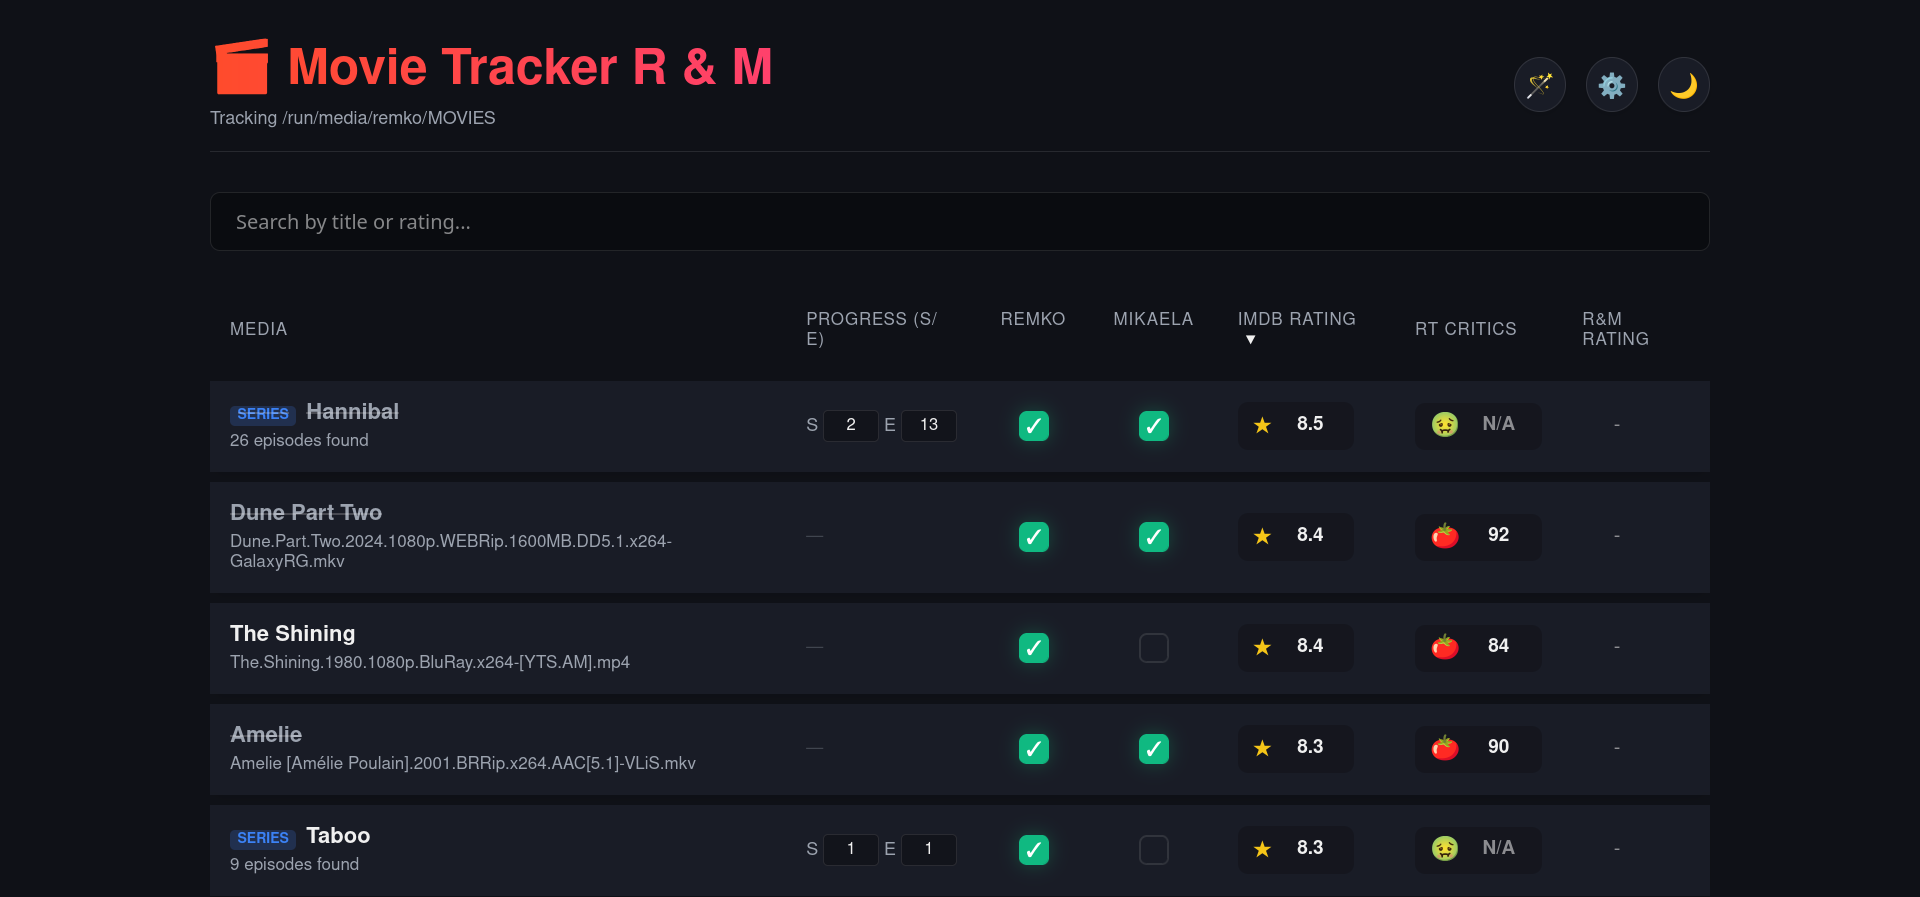
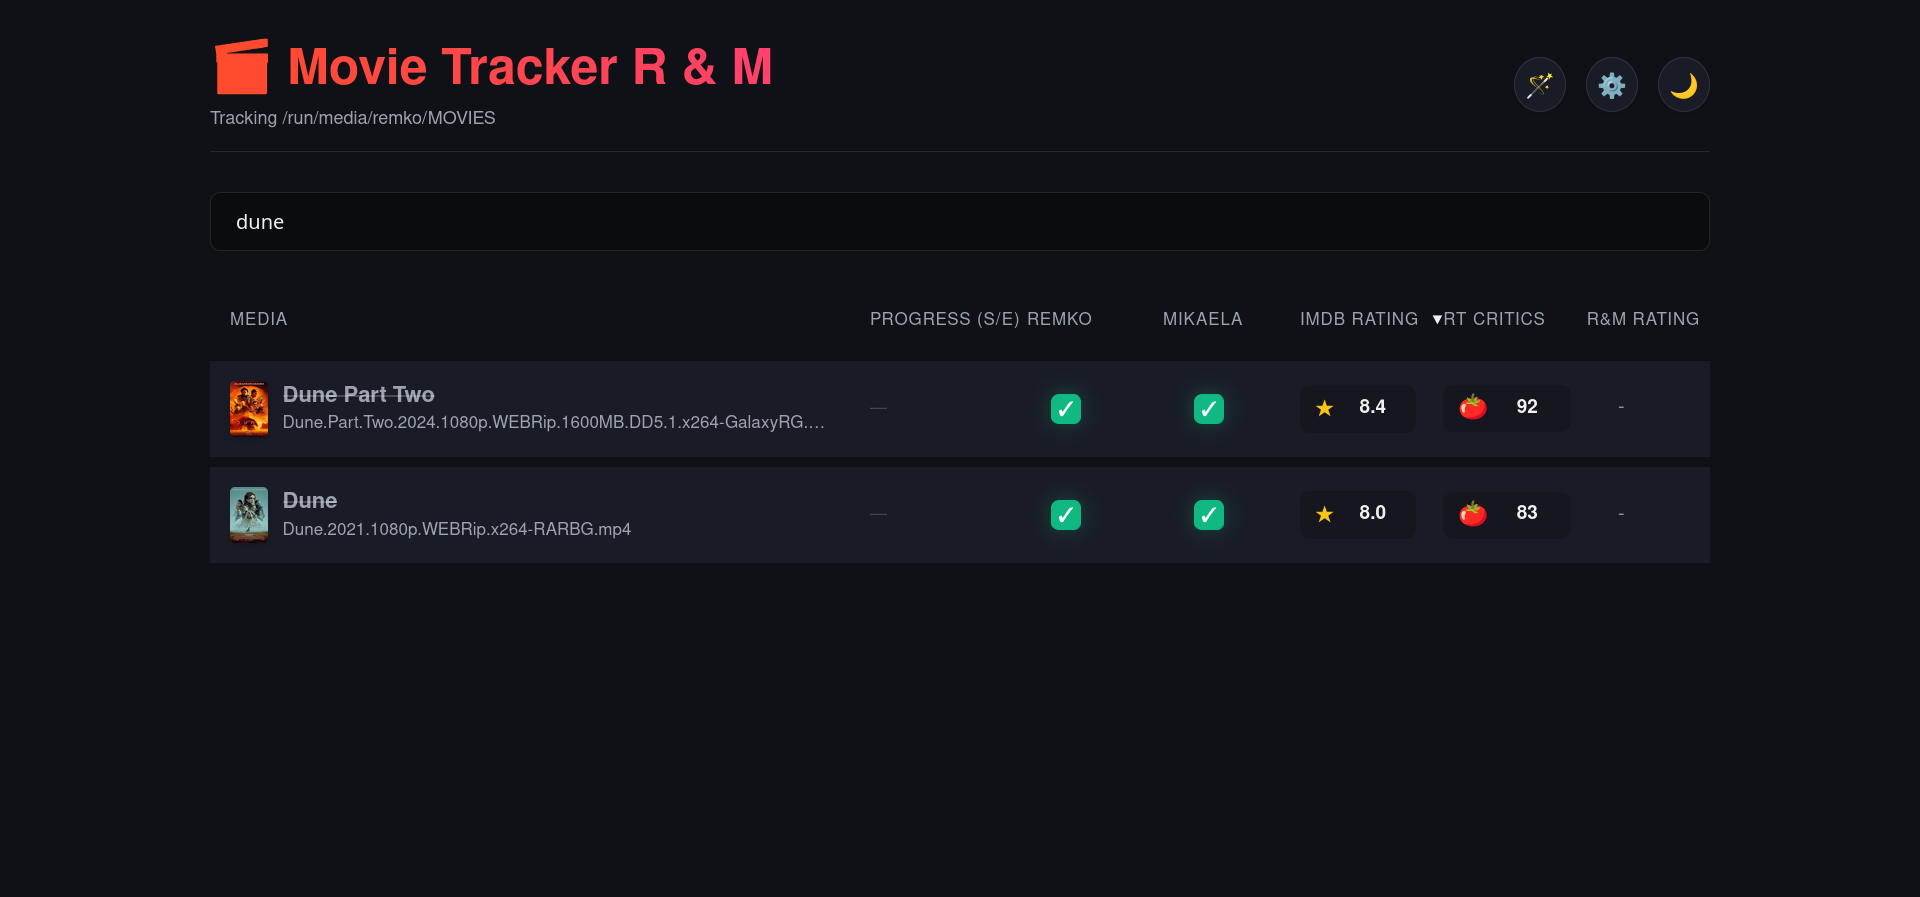
Added video previews and movie and series poster fetch
New Features:
- Video previews
- Movie and Series poster fetch

diff --git a/script.js b/script.js
@@ -169,7 +169,7 @@ let rawMoviesData = [];
         if (btn) btn.innerText = '⏳';
         
         for (const item of rawMoviesData) {
-            if (item.type === 'movie' && (item.imdb === 'N/A' || item.rt_critics === 'N/A')) {
+            if (item.imdb === 'N/A' || item.rt_critics === 'N/A' || item.poster === '') {
                 try {
                     const displayTitle = item.mapped_name || item.title;
                     const res = await fetch('/api/movies/fetch_ratings', {
@@ -381,19 +381,27 @@ let rawMoviesData = [];
         document.getElementById('overview-view').style.display = 'none';
         
         const displayTitle = item.mapped_name || item.title;
+        const hasPoster = item.poster && item.poster !== 'N/A';
+        const posterHtmlLarge = hasPoster 
+            ? `<img src="${item.poster}" alt="Poster" onerror="handlePosterError(this, 'large')" style="width: 250px; border-radius: 12px; box-shadow: 0 8px 24px rgba(0,0,0,0.4); flex-shrink: 0;">` 
+            : `<div style="width: 250px; height: 375px; background: var(--surface-light); border: 1px solid var(--border-color); border-radius: 12px; display: flex; align-items: center; justify-content: center; color: var(--text-muted); flex-shrink: 0; box-shadow: 0 8px 24px rgba(0,0,0,0.4);">No Poster</div>`;
+        
         let detailsHtml = `
             <button class="btn-back" onclick="hideDetails()">← Back to Overview</button>
-            <h2 style="font-size: 2.5rem; margin-bottom: 0.5rem;">${displayTitle}</h2>
-            
-            <div style="margin-bottom: 2rem;">
-                <label style="color: var(--text-muted); font-size: 0.85rem; display: block; margin-bottom: 0.25rem;">Mapped Name (override):</label>
-                <input type="text" id="mapped-name-input" value="${item.mapped_name || ''}" class="search-input" style="width: 300px; padding: 6px; font-size: 0.9rem;"
-                    placeholder="Enter clean name..."
-                    onfocus="handleInputFocus(this, '${item.id.replace(/'/g, "\\'")}', 'mapped_name', true)"
-                    onblur="handleInputBlur(this)"
-                    onkeydown="if(event.key==='Enter') { this.nextElementSibling?.click(); this.blur(); }">
-                <span id="save-status-${item.id.replace(/[^a-zA-Z0-9]/g, '')}" style="color: var(--accent-success); margin-left: 10px; opacity: 0; transition: opacity 0.3s;">✓ Saved</span>
-            </div>
+            <div style="display: flex; gap: 2rem; align-items: flex-start; margin-top: 1.5rem;">
+                ${posterHtmlLarge}
+                <div style="flex: 1; min-width: 0;">
+                    <h2 style="font-size: 2.5rem; margin-bottom: 0.5rem; margin-top: 0;">${displayTitle}</h2>
+                    
+                    <div style="margin-bottom: 2rem;">
+                        <label style="color: var(--text-muted); font-size: 0.85rem; display: block; margin-bottom: 0.25rem;">Mapped Name (override):</label>
+                        <input type="text" id="mapped-name-input" value="${item.mapped_name || ''}" class="search-input" style="width: 300px; padding: 6px; font-size: 0.9rem;"
+                            placeholder="Enter clean name..."
+                            onfocus="handleInputFocus(this, '${item.id.replace(/'/g, "\\'")}', 'mapped_name', true)"
+                            onblur="handleInputBlur(this)"
+                            onkeydown="if(event.key==='Enter') { this.nextElementSibling?.click(); this.blur(); }">
+                        <span id="save-status-${item.id.replace(/[^a-zA-Z0-9]/g, '')}" style="color: var(--accent-success); margin-left: 10px; opacity: 0; transition: opacity 0.3s;">✓ Saved</span>
+                    </div>
             
             ${item.type === 'movie' ? `
             <div style="margin-bottom: 2rem;">
@@ -429,7 +437,7 @@ let rawMoviesData = [];
                         onkeydown="if(event.key==='Enter') { this.nextElementSibling?.click(); this.blur(); }" placeholder="N/A">
                 </div>
                 <div class="rating-badge rating-rt-critics">
-                    <span class="icon">🍅</span>
+                    <span class="icon">${(item.rt_critics === 'N/A' || item.rt_critics === '') ? '<span style="filter: grayscale(1); opacity: 0.5;">🍅</span>' : (parseInt(item.rt_critics) >= 60 ? '🍅' : '🤢')}</span>
                     <input type="text" class="rating-input" style="width: 40px; background: transparent; border: 1px solid transparent; color: inherit; font-size: inherit; text-align: center;" value="${item.rt_critics !== 'N/A' ? item.rt_critics : ''}" 
                         onfocus="handleInputFocus(this, '${item.id.replace(/'/g, "\\'")}', 'rt_critics')" 
                         onblur="handleInputBlur(this)"
@@ -463,6 +471,21 @@ let rawMoviesData = [];
             });
             detailsHtml += `</ul>`;
         }
+        
+        if (item.type === 'movie' && item.filepath) {
+            const videoUrl = `/api/video?path=${encodeURIComponent(item.filepath)}`;
+            detailsHtml += `
+            <div style="margin-top: 3rem; border-top: 1px solid var(--border-color); padding-top: 2rem;">
+                <h3 style="margin-bottom: 1rem; color: var(--text-color);">Video Preview</h3>
+                <video controls width="100%" style="background: black; border-radius: 8px; max-height: 50vh;" preload="metadata">
+                    <source src="${videoUrl}" type="video/mp4">
+                    Your browser does not support the video tag.
+                </video>
+            </div>
+            `;
+        }
+        
+        detailsHtml += `</div></div>`; // Close the flex container and flex: 1 wrapper
         
         document.getElementById('details-view').innerHTML = detailsHtml;
         document.getElementById('details-view').style.display = 'block';
@@ -533,6 +556,14 @@ let rawMoviesData = [];
         });
     }
 
+    window.handlePosterError = function(imgElement, size) {
+        if (size === 'small') {
+            imgElement.outerHTML = `<div style="height: 45px; width: 30px; background: var(--surface-light); border: 1px solid var(--border-color); border-radius: 4px; display: flex; align-items: center; justify-content: center; color: var(--text-muted); font-size: 0.6rem; text-align: center; margin-right: 12px; box-sizing: border-box; line-height: 1;">N/A</div>`;
+        } else {
+            imgElement.outerHTML = `<div style="width: 250px; height: 375px; background: var(--surface-light); border: 1px solid var(--border-color); border-radius: 12px; display: flex; align-items: center; justify-content: center; color: var(--text-muted); flex-shrink: 0; box-shadow: 0 8px 24px rgba(0,0,0,0.4);">No Poster</div>`;
+        }
+    };
+
     function renderMovies() {
         updateSortIcons();
         const tbody = document.getElementById('movie-tbody');
@@ -556,10 +587,19 @@ let rawMoviesData = [];
             const subtext = isTv ? `${item.episodes_count} episodes found` : item.filename;
             
             const displayTitle = item.mapped_name || item.title;
+            const hasPoster = item.poster && item.poster !== 'N/A';
+            const posterHtmlSmall = hasPoster 
+                ? `<img src="${item.poster}" alt="poster" onerror="handlePosterError(this, 'small')" style="height: 45px; width: 30px; border-radius: 4px; object-fit: cover; margin-right: 12px; box-shadow: 0 2px 4px rgba(0,0,0,0.2);">` 
+                : `<div style="height: 45px; width: 30px; background: var(--surface-light); border: 1px solid var(--border-color); border-radius: 4px; display: flex; align-items: center; justify-content: center; color: var(--text-muted); font-size: 0.6rem; text-align: center; margin-right: 12px; box-sizing: border-box; line-height: 1;">N/A</div>`;
             
             tdTitle.innerHTML = `
-                <div class="movie-title" style="cursor:pointer;" onclick="showDetails('${item.id.replace(/'/g, "\\'")}')" title="View Details">${badge}${displayTitle}</div>
-                <div class="movie-meta">${subtext}</div>
+                <div style="display: flex; align-items: center; cursor:pointer;" onclick="showDetails('${item.id.replace(/'/g, "\\'")}')" title="View Details">
+                    ${posterHtmlSmall}
+                    <div style="min-width: 0;">
+                        <div class="movie-title">${badge}${displayTitle}</div>
+                        <div class="movie-meta">${subtext}</div>
+                    </div>
+                </div>
             `;
             tr.appendChild(tdTitle);
 
@@ -629,12 +669,14 @@ let rawMoviesData = [];
 
             // RT Critics Col
             const tdRtCritics = document.createElement('td');
-            const isFresh = item.rt_critics !== 'N/A' && parseInt(item.rt_critics) >= 60;
             const rtSearchUrl = `https://www.rottentomatoes.com/search?search=${encodeURIComponent(item.title)}`;
+            const isNa = item.rt_critics === 'N/A' || item.rt_critics === '';
+            const isFresh = !isNa && parseInt(item.rt_critics) >= 60;
+            const rtIcon = isNa ? '<span style="filter: grayscale(1); opacity: 0.5;">🍅</span>' : (isFresh ? '🍅' : '🤢');
             tdRtCritics.innerHTML = `
                 <div class="rating-badge rating-rt-critics">
                     <a href="${rtSearchUrl}" target="_blank" title="Search on Rotten Tomatoes" style="text-decoration: none;">
-                        <span class="icon" style="cursor: pointer;">${isFresh ? '🍅' : '🤢'}</span>
+                        <span class="icon" style="cursor: pointer;">${rtIcon}</span>
                     </a>
                     <input type="text" class="rating-input" style="width: 40px; background: transparent; border: 1px solid transparent; color: inherit; font-size: inherit; text-align: center;" value="${item.rt_critics !== 'N/A' ? item.rt_critics : ''}" 
                         onfocus="handleInputFocus(this, '${item.id.replace(/'/g, "\\'")}', 'rt_critics')" 

diff --git a/styles.css b/styles.css
@@ -86,6 +86,7 @@
             width: 100%;
             border-collapse: separate;
             border-spacing: 0 0.5rem;
+            table-layout: fixed;
         }
 
         .movie-table th {
@@ -97,6 +98,7 @@
             font-size: 0.85rem;
             letter-spacing: 0.05em;
             user-select: none;
+            white-space: nowrap;
         }
 
         .sortable {
@@ -149,7 +151,7 @@
         }
 
         .col-title {
-            width: 35%;
+            width: 40%;
         }
 
         .movie-title {
@@ -157,11 +159,17 @@
             font-weight: 600;
             margin-bottom: 0.25rem;
             transition: color 0.3s;
+            white-space: nowrap;
+            overflow: hidden;
+            text-overflow: ellipsis;
         }
 
         .movie-meta {
             font-size: 0.85rem;
             color: var(--text-muted);
+            white-space: nowrap;
+            overflow: hidden;
+            text-overflow: ellipsis;
         }
 
         .series-badge {

diff --git a/app.py b/app.py
@@ -114,6 +114,7 @@ def scan_movies():
                                         "rm_rating": "",
                                         "imdb": "N/A",
                                         "rt_critics": "N/A",
+                                        "poster": "",
                                         "season": "",
                                         "episode": "",
                                         "episodes_count": 0,
@@ -139,7 +140,8 @@ def scan_movies():
                                     "mapped_name": "",
                                     "rm_rating": "",
                                     "imdb": "N/A",
-                                    "rt_critics": "N/A"
+                                    "rt_critics": "N/A",
+                                    "poster": ""
                                 })
                     except OSError:
                         pass
@@ -173,6 +175,66 @@ class RequestHandler(BaseHTTPRequestHandler):
         if parsed_path.path == '/api/movies':
             movies = scan_movies()
             self._send_response(json.dumps(movies))
+        elif parsed_path.path == '/api/video':
+            import urllib.parse
+            query = urllib.parse.parse_qs(parsed_path.query)
+            if 'path' in query:
+                filepath = query['path'][0]
+                if os.path.exists(filepath):
+                    file_size = os.path.getsize(filepath)
+                    import mimetypes
+                    mime_type, _ = mimetypes.guess_type(filepath)
+                    if not mime_type:
+                        mime_type = 'video/mp4'
+                    
+                    range_header = self.headers.get('Range', None)
+                    if range_header:
+                        import re
+                        m = re.search(r'bytes=(\d+)-(\d*)', range_header)
+                        if m:
+                            start = int(m.group(1))
+                            end = m.group(2)
+                            if end:
+                                end = int(end)
+                            else:
+                                end = file_size - 1
+                            
+                            length = end - start + 1
+                            self.send_response(206)
+                            self.send_header('Content-Type', mime_type)
+                            self.send_header('Content-Length', str(length))
+                            self.send_header('Accept-Ranges', 'bytes')
+                            self.send_header('Content-Range', f'bytes {start}-{end}/{file_size}')
+                            self.end_headers()
+                            
+                            try:
+                                with open(filepath, 'rb') as f:
+                                    f.seek(start)
+                                    remaining = length
+                                    chunk_size = 8192
+                                    while remaining > 0:
+                                        chunk = f.read(min(chunk_size, remaining))
+                                        if not chunk: break
+                                        self.wfile.write(chunk)
+                                        remaining -= len(chunk)
+                            except (ConnectionResetError, BrokenPipeError):
+                                pass
+                            return
+                    
+                    self.send_response(200)
+                    self.send_header('Content-Type', mime_type)
+                    self.send_header('Content-Length', str(file_size))
+                    self.send_header('Accept-Ranges', 'bytes')
+                    self.end_headers()
+                    try:
+                        with open(filepath, 'rb') as f:
+                            import shutil
+                            shutil.copyfileobj(f, self.wfile)
+                    except (ConnectionResetError, BrokenPipeError):
+                        pass
+                    return
+            self.send_response(404)
+            self.end_headers()
         elif parsed_path.path == '/api/settings':
             settings = get_settings()
             self._send_response(json.dumps(settings))
@@ -224,7 +286,7 @@ class RequestHandler(BaseHTTPRequestHandler):
                 if item_id not in db:
                     db[item_id] = {}
                 
-                for k in ['watched', 'watched_remko', 'watched_mikaela', 'mapped_name', 'rm_rating', 'imdb', 'rt_critics', 'title', 'season', 'episode', 'imdb_id']:
+                for k in ['watched', 'watched_remko', 'watched_mikaela', 'mapped_name', 'rm_rating', 'imdb', 'rt_critics', 'poster', 'title', 'season', 'episode', 'imdb_id']:
                     if k in data:
                         db[item_id][k] = data[k]
                 
@@ -278,6 +340,10 @@ class RequestHandler(BaseHTTPRequestHandler):
                         for rating in omdb_data.get('Ratings', []):
                             if rating['Source'] == 'Rotten Tomatoes':
                                 updates['rt_critics'] = rating['Value'].replace('%', '')
+                        
+                        poster = omdb_data.get('Poster')
+                        if poster:
+                            updates['poster'] = poster
                         
                         if updates:
                             db = load_db()

diff --git a/README.md b/README.md
@@ -6,7 +6,9 @@ A lightweight, modern web interface to track your watched movies and TV series a
 - **Cross-Platform**: Works out of the box on Windows, Mac, and Linux.
 - **In-App Settings**: Change the tracking folder path and custom usernames directly from the UI without touching the code.
 - **Details View**: Click any title to see its IMDb and Rotten Tomatoes ratings, plus an editable custom canonical name.
+- **Video Previews**: Play and scrub through movie files directly within the browser using the built-in video player in the details view.
 - **Auto-Fetch Ratings**: Connect a free OMDb API key in Settings to instantly fetch missing IMDb and Rotten Tomatoes ratings with the Magic Wand button.
+- **Movie & Series Posters**: Automatically downloads high-resolution cover art from OMDb, displaying sleek thumbnails in the main list and full posters in the details view.
 - **Smart Linking**: Manually search OMDb within the Details view and link movies to their exact official database IDs for perfect accuracy.
 - **Safe Saving**: Click into any field to edit; a small `💾` Save button appears (with a delayed auto-hide) so you never lose progress, or just hit `Enter` to quick-save.
 - **Series Tracking**: Automatically detects TV series, tracks seasons/episodes, and lists available episodes.
@@ -19,8 +21,10 @@ A lightweight, modern web interface to track your watched movies and TV series a
   <a href="screenshots/dark_overview.png" target="_blank"><img src="screenshots/dark_overview.png" width="45%"></a>
   <a href="screenshots/light_overview.png" target="_blank"><img src="screenshots/light_overview.png" width="45%"></a>
   <br>
-  <a href="screenshots/dark_settings.png" target="_blank"><img src="screenshots/dark_settings.png" width="45%"></a>
-  <a href="screenshots/light_details.png" target="_blank"><img src="screenshots/light_details.png" width="45%"></a>
+  <a href="screenshots/dark_details.png" target="_blank"><img src="screenshots/dark_details.png" width="45%"></a>
+  <a href="screenshots/light_settings.png" target="_blank"><img src="screenshots/light_settings.png" width="45%"></a>
+  <br>
+  <a href="screenshots/dark_video.png" target="_blank"><img src="screenshots/dark_video.png" width="90%"></a>
 </p>
 
 ---
